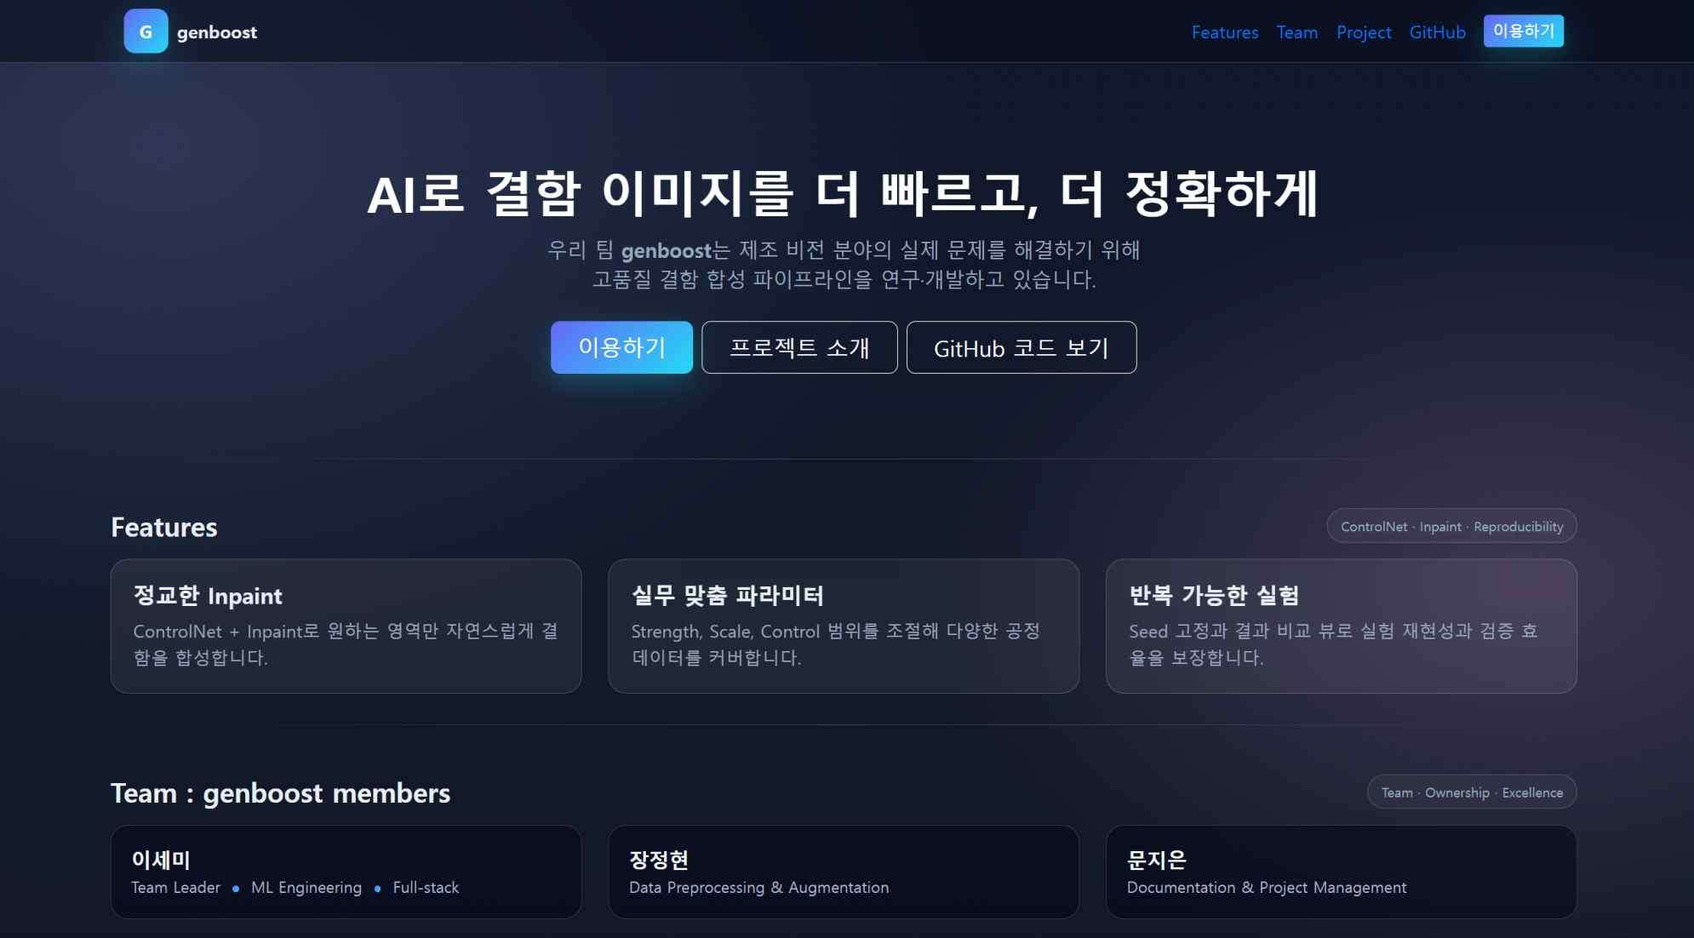
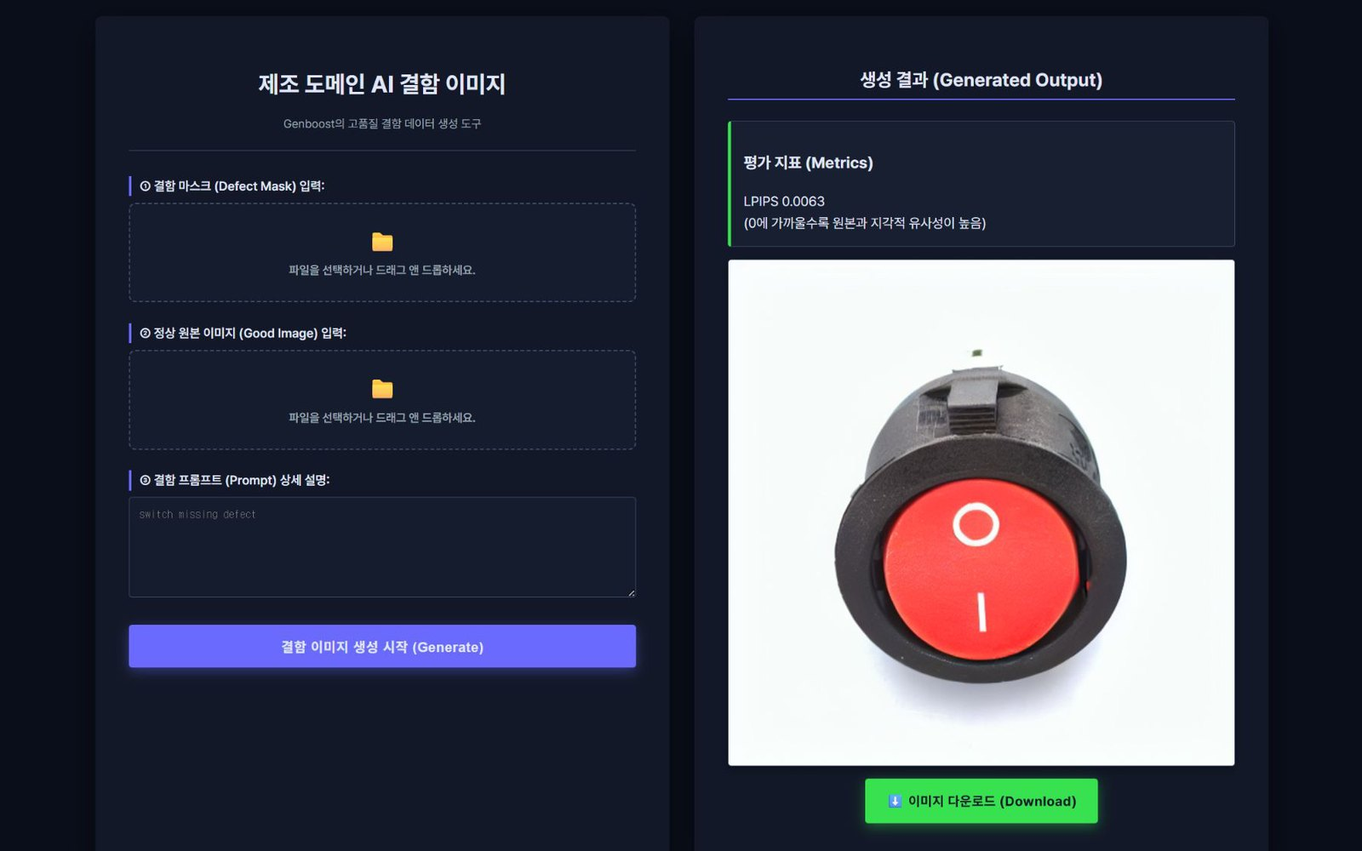
한이음 드림업 썸네일 교체: 팀원 이름이 잘린 메인 화면 대신 생성 결과 화면 사용

diff --git a/index.html b/index.html
@@ -34,7 +34,7 @@
   </section>
   <div class="nums"><div><b>8</b><span>프로젝트</span></div><div><b>2</b><span>수상 (우수상 · 장려상)</span></div><div><b>7</b><span>학기 이수 · IT융합전공</span></div></div>
   <section class="blk" id="about"><h2 class="t">About</h2><p class="about">서로 다른 레이어의 프로젝트를 직접 설계하고 구현해왔습니다. <mark>왜 이 방식을 선택했는가</mark>와 <mark>결과를 어떻게 수치로 증명할 수 있는가</mark>를 가장 중요하게 생각합니다.</p></section>
-  <a id="projects"></a><section class="blk" id="work"><h2 class="t">Selected work</h2><div><article class="pc" style="--i:0" data-slug="semantic-search-engine" data-meta="2025 · SSU DATATHON" data-title="의미론적 검색 엔진 모델 구축 — 4bit Pathfinder" data-res="데이터톤 우수상"><div class="pt"><div class="pidx">01 / 08</div><div class="pmeta">2025 · SSU DATATHON</div><h3><a class="stretch" href="./project-pages/semantic-search-engine.html">의미론적 검색 엔진 모델 구축 — 4bit Pathfinder</a></h3><p class="pres">데이터톤 우수상</p><p class="psum">62,199건 논문 데이터의 키워드 결측치를 복구해, FAISS 기반 연구자·기관 추천 엔진을 만들었습니다.</p><div class="tags"><span class="tag">Python</span><span class="tag">FAISS</span><span class="tag">ko-sroberta-multitask</span><span class="tag">Streamlit</span></div><div class="plinks"><a href="https://github.com/gamedh823-cmd/portfolio/blob/main/projects/semantic-search-engine/README.md" target="_blank" rel="noopener">README</a><a href="./projects/semantic-search-engine/datathon_report.pdf" target="_blank" rel="noopener">결과보고서 PDF</a><span class="more">자세히 보기 →</span></div></div><div class="pm"><div class="dev"><div class="dev-bar"><i></i><i></i><i></i></div><img src="./assets/semantic-search-engine.png" alt="4bit Pathfinder 실행 화면"></div></div></article><article class="pc" style="--i:1" data-slug="hanium-dreamup" data-meta="2025 · 과기정통부" data-title="한이음 드림업: 결함 데이터 증강 시스템" data-res="과기정통부 주최 장려상"><div class="pt"><div class="pidx">02 / 08</div><div class="pmeta">2025 · 과기정통부</div><h3><a class="stretch" href="./project-pages/hanium-dreamup.html">한이음 드림업: 결함 데이터 증강 시스템</a></h3><p class="pres">과기정통부 주최 장려상</p><p class="psum">Stable Diffusion·ControlNet으로 제조 결함 이미지를 생성해, 학습 데이터 부족 문제를 해결했습니다.</p><div class="tags"><span class="tag">Python</span><span class="tag">Django</span><span class="tag">AWS S3/RDS</span><span class="tag">Stable Diffusion</span></div><div class="plinks"><a href="https://github.com/gamedh823-cmd/portfolio/blob/main/projects/hanium-dreamup/README.md" target="_blank" rel="noopener">README</a><a href="./projects/hanium-dreamup/hanium_report.pdf" target="_blank" rel="noopener">개발보고서 PDF</a><a href="./projects/hanium-dreamup/hanium_design.pdf" target="_blank" rel="noopener">설계서 PDF</a><span class="more">자세히 보기 →</span></div></div><div class="pm"><div class="dev"><div class="dev-bar"><i></i><i></i><i></i></div><img src="./assets/hanium-dreamup.jpg" alt="genboost 웹앱 메인 화면"></div></div></article><article class="pc" style="--i:2" data-slug="os-monte-carlo-parallel" data-meta="2026 · 운영체제" data-title="CPU-bound Monte Carlo 병렬 처리 구조 성능 분석" data-res="4-worker 효율 92.5~94.0%"><div class="pt"><div class="pidx">03 / 08</div><div class="pmeta">2026 · 운영체제</div><h3><a class="stretch" href="./project-pages/os-monte-carlo-parallel.html">CPU-bound Monte Carlo 병렬 처리 구조 성능 분석</a></h3><p class="pres">4-worker 효율 92.5~94.0%</p><p class="psum">5가지 병렬 처리 구조를 직접 구현해, 워커 수와 실행 효율의 관계를 수치로 입증했습니다.</p><div class="tags"><span class="tag">C</span><span class="tag">Linux</span><span class="tag">POSIX pthread</span><span class="tag">Process/IPC</span></div><div class="plinks"><a href="https://github.com/gamedh823-cmd/portfolio/blob/main/projects/os-monte-carlo-parallel/README.md" target="_blank" rel="noopener">README</a><a href="./projects/os-monte-carlo-parallel/os_report.pdf" target="_blank" rel="noopener">보고서 PDF</a><span class="more">자세히 보기 →</span></div></div><div class="pm"><div class="dev"><div class="dev-bar"><i></i><i></i><i></i></div><img src="./assets/os-monte-carlo-parallel.png" alt="Worker 수 증가에 따른 실행 시간 감소 그래프"></div></div></article><article class="pc" style="--i:3" data-slug="ai-anomaly-detection" data-meta="2025 · 인공신경망(ANN)" data-title="Autoencoder 기반 이상 탐지 모델 하이퍼파라미터 최적화" data-res="재구성 오차율 최소화"><div class="pt"><div class="pidx">04 / 08</div><div class="pmeta">2025 · 인공신경망(ANN)</div><h3><a class="stretch" href="./project-pages/ai-anomaly-detection.html">Autoencoder 기반 이상 탐지 모델 하이퍼파라미터 최적화</a></h3><p class="pres">재구성 오차율 최소화</p><p class="psum">심각한 과적합의 원인을 하이퍼파라미터별로 실험해, Test Accuracy를 81%까지 끌어올렸습니다.</p><div class="tags"><span class="tag">PyTorch</span><span class="tag">Autoencoder</span></div><div class="plinks"><a href="https://github.com/gamedh823-cmd/portfolio/blob/main/projects/ai-anomaly-detection/README.md" target="_blank" rel="noopener">README</a><a href="./projects/ai-anomaly-detection/ann_project.pdf" target="_blank" rel="noopener">연구보고서 PDF</a><span class="more">자세히 보기 →</span></div></div><div class="pm"><div class="dev"><div class="dev-bar"><i></i><i></i><i></i></div><img src="./assets/ai-anomaly-detection.png" alt="정상/이상 데이터 재구성 오차 분포 개념도"></div></div></article><article class="pc" style="--i:4" data-slug="arm-image-processing" data-meta="2025 · 마이크로프로세서" data-title="ARM 코드 최적화 및 이미지 변환 시스템 구현" data-res="링커 충돌 분석·해결"><div class="pt"><div class="pidx">05 / 08</div><div class="pmeta">2025 · 마이크로프로세서</div><h3><a class="stretch" href="./project-pages/arm-image-processing.html">ARM 코드 최적화 및 이미지 변환 시스템 구현</a></h3><p class="pres">링커 충돌 분석·해결</p><p class="psum">ARM 어셈블리로 이미지 색 반전 연산을 구현하고, 링커 충돌 문제를 직접 분석해 해결했습니다.</p><div class="tags"><span class="tag">ARM Assembly</span><span class="tag">Keil MDK</span><span class="tag">Embedded System</span></div><div class="plinks"><a href="https://github.com/gamedh823-cmd/portfolio/blob/main/projects/arm-image-processing/README.md" target="_blank" rel="noopener">README</a><a href="./projects/arm-image-processing/microprocessor_report.pdf" target="_blank" rel="noopener">보고서 PDF</a><a href="./projects/arm-image-processing/microprocessor_presentation.pdf" target="_blank" rel="noopener">발표자료 PDF</a><span class="more">자세히 보기 →</span></div></div><div class="pm"><div class="dev"><div class="dev-bar"><i></i><i></i><i></i></div><img src="./assets/arm-image-processing.png" alt="Keil MDK 메모리 뷰 (음화 변환 실행 결과)"></div></div></article><article class="pc" style="--i:5" data-slug="cpu-4bit-architecture" data-meta="2024 · 컴퓨터구조 (SimpleScalar)" data-title="Computer Architecture: 프로세서·캐시 구성 성능 분석" data-res="설계 명세 동작 검증"><div class="pt"><div class="pidx">06 / 08</div><div class="pmeta">2024 · 컴퓨터구조 (SimpleScalar)</div><h3><a class="stretch" href="./project-pages/cpu-4bit-architecture.html">Computer Architecture: 프로세서·캐시 구성 성능 분석</a></h3><p class="pres">설계 명세 동작 검증</p><p class="psum">SimpleScalar로 프로세서·캐시 구성을 바꿔가며, 4개 벤치마크로 성능 변화를 정량 분석했습니다.</p><div class="tags"><span class="tag">SimpleScalar</span><span class="tag">C</span><span class="tag">Cache/Branch Predictor Simulation</span></div><div class="plinks"><a href="https://github.com/gamedh823-cmd/portfolio/blob/main/projects/cpu-4bit-architecture/README.md" target="_blank" rel="noopener">README</a><a href="./projects/cpu-4bit-architecture/computer_architecture_report.pdf" target="_blank" rel="noopener">보고서 PDF</a><span class="more">자세히 보기 →</span></div></div><div class="pm"><div class="dev"><div class="dev-bar"><i></i><i></i><i></i></div><img src="./assets/cpu-4bit-architecture.png" alt="Cache Block Size 변화에 따른 CPI 그래프"></div></div></article><article class="pc" style="--i:6" data-slug="fir-filter-design" data-meta="2025 · 팀 프로젝트 (4인)" data-title="Reconfigurable FIR Filter 설계" data-res="Waveform으로 동작 검증"><div class="pt"><div class="pidx">07 / 08</div><div class="pmeta">2025 · 팀 프로젝트 (4인)</div><h3><a class="stretch" href="./project-pages/fir-filter-design.html">Reconfigurable FIR Filter 설계</a></h3><p class="pres">Waveform으로 동작 검증</p><p class="psum">21-tap 재구성형 FIR 필터를 Verilog로 설계해, 계수 변경 중 파형이 깨지는 문제를 해결했습니다.</p><div class="tags"><span class="tag">Verilog HDL</span><span class="tag">FPGA</span><span class="tag">Quartus</span><span class="tag">QuestaSim</span></div><div class="plinks"><a href="https://github.com/gamedh823-cmd/portfolio/blob/main/projects/fir-filter-design/README.md" target="_blank" rel="noopener">README</a><a href="./projects/fir-filter-design/fir_filter_report.pdf" target="_blank" rel="noopener">보고서 PDF</a><span class="more">자세히 보기 →</span></div></div><div class="pm"><div class="dev"><div class="dev-bar"><i></i><i></i><i></i></div><img src="./assets/fir-filter-design.png" alt="QuestaSim Impulse Response Waveform 시뮬레이션 결과"></div></div></article><article class="pc" style="--i:7" data-slug="lithography-opc-pbl" data-meta="2026 · 컴퓨터를 활용한 리소그래피 PBL" data-title="OPC Recipe 파라미터 변화에 따른 Mask·Contour 보정 분석" data-res="Corner Rounding 24.39 → 19.1nm"><div class="pt"><div class="pidx">08 / 08</div><div class="pmeta">2026 · 컴퓨터를 활용한 리소그래피 PBL</div><h3><a class="stretch" href="./project-pages/lithography-opc-pbl.html">OPC Recipe 파라미터 변화에 따른 Mask·Contour 보정 분석</a></h3><p class="pres">Corner Rounding 24.39 → 19.1nm</p><p class="psum">default·split recipe로 OPC를 수행해, Corner Rounding을 24.39nm에서 19.1nm로 줄였습니다.</p><div class="tags"><span class="tag">OPC</span><span class="tag">Synopsys Proteus</span><span class="tag">Contour Simulation</span></div><div class="plinks"><a href="https://github.com/gamedh823-cmd/portfolio/blob/main/projects/lithography-opc-pbl/README.md" target="_blank" rel="noopener">README</a><a href="./projects/lithography-opc-pbl/lithography_pbl.pdf" target="_blank" rel="noopener">발표자료 PDF</a><span class="more">자세히 보기 →</span></div></div><div class="pm"><div class="dev"><div class="dev-bar"><i></i><i></i><i></i></div><img src="./assets/lithography-opc-pbl.png" alt="Split recipe 적용 후 Corner Rounding 19.09nm 측정 화면 (Synopsys Proteus)"></div></div></article></div></section>
+  <a id="projects"></a><section class="blk" id="work"><h2 class="t">Selected work</h2><div><article class="pc" style="--i:0" data-slug="semantic-search-engine" data-meta="2025 · SSU DATATHON" data-title="의미론적 검색 엔진 모델 구축 — 4bit Pathfinder" data-res="데이터톤 우수상"><div class="pt"><div class="pidx">01 / 08</div><div class="pmeta">2025 · SSU DATATHON</div><h3><a class="stretch" href="./project-pages/semantic-search-engine.html">의미론적 검색 엔진 모델 구축 — 4bit Pathfinder</a></h3><p class="pres">데이터톤 우수상</p><p class="psum">62,199건 논문 데이터의 키워드 결측치를 복구해, FAISS 기반 연구자·기관 추천 엔진을 만들었습니다.</p><div class="tags"><span class="tag">Python</span><span class="tag">FAISS</span><span class="tag">ko-sroberta-multitask</span><span class="tag">Streamlit</span></div><div class="plinks"><a href="https://github.com/gamedh823-cmd/portfolio/blob/main/projects/semantic-search-engine/README.md" target="_blank" rel="noopener">README</a><a href="./projects/semantic-search-engine/datathon_report.pdf" target="_blank" rel="noopener">결과보고서 PDF</a><span class="more">자세히 보기 →</span></div></div><div class="pm"><div class="dev"><div class="dev-bar"><i></i><i></i><i></i></div><img src="./assets/semantic-search-engine.png" alt="4bit Pathfinder 실행 화면"></div></div></article><article class="pc" style="--i:1" data-slug="hanium-dreamup" data-meta="2025 · 과기정통부" data-title="한이음 드림업: 결함 데이터 증강 시스템" data-res="과기정통부 주최 장려상"><div class="pt"><div class="pidx">02 / 08</div><div class="pmeta">2025 · 과기정통부</div><h3><a class="stretch" href="./project-pages/hanium-dreamup.html">한이음 드림업: 결함 데이터 증강 시스템</a></h3><p class="pres">과기정통부 주최 장려상</p><p class="psum">Stable Diffusion·ControlNet으로 제조 결함 이미지를 생성해, 학습 데이터 부족 문제를 해결했습니다.</p><div class="tags"><span class="tag">Python</span><span class="tag">Django</span><span class="tag">AWS S3/RDS</span><span class="tag">Stable Diffusion</span></div><div class="plinks"><a href="https://github.com/gamedh823-cmd/portfolio/blob/main/projects/hanium-dreamup/README.md" target="_blank" rel="noopener">README</a><a href="./projects/hanium-dreamup/hanium_report.pdf" target="_blank" rel="noopener">개발보고서 PDF</a><a href="./projects/hanium-dreamup/hanium_design.pdf" target="_blank" rel="noopener">설계서 PDF</a><span class="more">자세히 보기 →</span></div></div><div class="pm"><div class="dev"><div class="dev-bar"><i></i><i></i><i></i></div><img src="./assets/hanium-dreamup.jpg" alt="genboost 웹앱 생성 결과 화면 (결함 이미지와 LPIPS 평가 지표)"></div></div></article><article class="pc" style="--i:2" data-slug="os-monte-carlo-parallel" data-meta="2026 · 운영체제" data-title="CPU-bound Monte Carlo 병렬 처리 구조 성능 분석" data-res="4-worker 효율 92.5~94.0%"><div class="pt"><div class="pidx">03 / 08</div><div class="pmeta">2026 · 운영체제</div><h3><a class="stretch" href="./project-pages/os-monte-carlo-parallel.html">CPU-bound Monte Carlo 병렬 처리 구조 성능 분석</a></h3><p class="pres">4-worker 효율 92.5~94.0%</p><p class="psum">5가지 병렬 처리 구조를 직접 구현해, 워커 수와 실행 효율의 관계를 수치로 입증했습니다.</p><div class="tags"><span class="tag">C</span><span class="tag">Linux</span><span class="tag">POSIX pthread</span><span class="tag">Process/IPC</span></div><div class="plinks"><a href="https://github.com/gamedh823-cmd/portfolio/blob/main/projects/os-monte-carlo-parallel/README.md" target="_blank" rel="noopener">README</a><a href="./projects/os-monte-carlo-parallel/os_report.pdf" target="_blank" rel="noopener">보고서 PDF</a><span class="more">자세히 보기 →</span></div></div><div class="pm"><div class="dev"><div class="dev-bar"><i></i><i></i><i></i></div><img src="./assets/os-monte-carlo-parallel.png" alt="Worker 수 증가에 따른 실행 시간 감소 그래프"></div></div></article><article class="pc" style="--i:3" data-slug="ai-anomaly-detection" data-meta="2025 · 인공신경망(ANN)" data-title="Autoencoder 기반 이상 탐지 모델 하이퍼파라미터 최적화" data-res="재구성 오차율 최소화"><div class="pt"><div class="pidx">04 / 08</div><div class="pmeta">2025 · 인공신경망(ANN)</div><h3><a class="stretch" href="./project-pages/ai-anomaly-detection.html">Autoencoder 기반 이상 탐지 모델 하이퍼파라미터 최적화</a></h3><p class="pres">재구성 오차율 최소화</p><p class="psum">심각한 과적합의 원인을 하이퍼파라미터별로 실험해, Test Accuracy를 81%까지 끌어올렸습니다.</p><div class="tags"><span class="tag">PyTorch</span><span class="tag">Autoencoder</span></div><div class="plinks"><a href="https://github.com/gamedh823-cmd/portfolio/blob/main/projects/ai-anomaly-detection/README.md" target="_blank" rel="noopener">README</a><a href="./projects/ai-anomaly-detection/ann_project.pdf" target="_blank" rel="noopener">연구보고서 PDF</a><span class="more">자세히 보기 →</span></div></div><div class="pm"><div class="dev"><div class="dev-bar"><i></i><i></i><i></i></div><img src="./assets/ai-anomaly-detection.png" alt="정상/이상 데이터 재구성 오차 분포 개념도"></div></div></article><article class="pc" style="--i:4" data-slug="arm-image-processing" data-meta="2025 · 마이크로프로세서" data-title="ARM 코드 최적화 및 이미지 변환 시스템 구현" data-res="링커 충돌 분석·해결"><div class="pt"><div class="pidx">05 / 08</div><div class="pmeta">2025 · 마이크로프로세서</div><h3><a class="stretch" href="./project-pages/arm-image-processing.html">ARM 코드 최적화 및 이미지 변환 시스템 구현</a></h3><p class="pres">링커 충돌 분석·해결</p><p class="psum">ARM 어셈블리로 이미지 색 반전 연산을 구현하고, 링커 충돌 문제를 직접 분석해 해결했습니다.</p><div class="tags"><span class="tag">ARM Assembly</span><span class="tag">Keil MDK</span><span class="tag">Embedded System</span></div><div class="plinks"><a href="https://github.com/gamedh823-cmd/portfolio/blob/main/projects/arm-image-processing/README.md" target="_blank" rel="noopener">README</a><a href="./projects/arm-image-processing/microprocessor_report.pdf" target="_blank" rel="noopener">보고서 PDF</a><a href="./projects/arm-image-processing/microprocessor_presentation.pdf" target="_blank" rel="noopener">발표자료 PDF</a><span class="more">자세히 보기 →</span></div></div><div class="pm"><div class="dev"><div class="dev-bar"><i></i><i></i><i></i></div><img src="./assets/arm-image-processing.png" alt="Keil MDK 메모리 뷰 (음화 변환 실행 결과)"></div></div></article><article class="pc" style="--i:5" data-slug="cpu-4bit-architecture" data-meta="2024 · 컴퓨터구조 (SimpleScalar)" data-title="Computer Architecture: 프로세서·캐시 구성 성능 분석" data-res="설계 명세 동작 검증"><div class="pt"><div class="pidx">06 / 08</div><div class="pmeta">2024 · 컴퓨터구조 (SimpleScalar)</div><h3><a class="stretch" href="./project-pages/cpu-4bit-architecture.html">Computer Architecture: 프로세서·캐시 구성 성능 분석</a></h3><p class="pres">설계 명세 동작 검증</p><p class="psum">SimpleScalar로 프로세서·캐시 구성을 바꿔가며, 4개 벤치마크로 성능 변화를 정량 분석했습니다.</p><div class="tags"><span class="tag">SimpleScalar</span><span class="tag">C</span><span class="tag">Cache/Branch Predictor Simulation</span></div><div class="plinks"><a href="https://github.com/gamedh823-cmd/portfolio/blob/main/projects/cpu-4bit-architecture/README.md" target="_blank" rel="noopener">README</a><a href="./projects/cpu-4bit-architecture/computer_architecture_report.pdf" target="_blank" rel="noopener">보고서 PDF</a><span class="more">자세히 보기 →</span></div></div><div class="pm"><div class="dev"><div class="dev-bar"><i></i><i></i><i></i></div><img src="./assets/cpu-4bit-architecture.png" alt="Cache Block Size 변화에 따른 CPI 그래프"></div></div></article><article class="pc" style="--i:6" data-slug="fir-filter-design" data-meta="2025 · 팀 프로젝트 (4인)" data-title="Reconfigurable FIR Filter 설계" data-res="Waveform으로 동작 검증"><div class="pt"><div class="pidx">07 / 08</div><div class="pmeta">2025 · 팀 프로젝트 (4인)</div><h3><a class="stretch" href="./project-pages/fir-filter-design.html">Reconfigurable FIR Filter 설계</a></h3><p class="pres">Waveform으로 동작 검증</p><p class="psum">21-tap 재구성형 FIR 필터를 Verilog로 설계해, 계수 변경 중 파형이 깨지는 문제를 해결했습니다.</p><div class="tags"><span class="tag">Verilog HDL</span><span class="tag">FPGA</span><span class="tag">Quartus</span><span class="tag">QuestaSim</span></div><div class="plinks"><a href="https://github.com/gamedh823-cmd/portfolio/blob/main/projects/fir-filter-design/README.md" target="_blank" rel="noopener">README</a><a href="./projects/fir-filter-design/fir_filter_report.pdf" target="_blank" rel="noopener">보고서 PDF</a><span class="more">자세히 보기 →</span></div></div><div class="pm"><div class="dev"><div class="dev-bar"><i></i><i></i><i></i></div><img src="./assets/fir-filter-design.png" alt="QuestaSim Impulse Response Waveform 시뮬레이션 결과"></div></div></article><article class="pc" style="--i:7" data-slug="lithography-opc-pbl" data-meta="2026 · 컴퓨터를 활용한 리소그래피 PBL" data-title="OPC Recipe 파라미터 변화에 따른 Mask·Contour 보정 분석" data-res="Corner Rounding 24.39 → 19.1nm"><div class="pt"><div class="pidx">08 / 08</div><div class="pmeta">2026 · 컴퓨터를 활용한 리소그래피 PBL</div><h3><a class="stretch" href="./project-pages/lithography-opc-pbl.html">OPC Recipe 파라미터 변화에 따른 Mask·Contour 보정 분석</a></h3><p class="pres">Corner Rounding 24.39 → 19.1nm</p><p class="psum">default·split recipe로 OPC를 수행해, Corner Rounding을 24.39nm에서 19.1nm로 줄였습니다.</p><div class="tags"><span class="tag">OPC</span><span class="tag">Synopsys Proteus</span><span class="tag">Contour Simulation</span></div><div class="plinks"><a href="https://github.com/gamedh823-cmd/portfolio/blob/main/projects/lithography-opc-pbl/README.md" target="_blank" rel="noopener">README</a><a href="./projects/lithography-opc-pbl/lithography_pbl.pdf" target="_blank" rel="noopener">발표자료 PDF</a><span class="more">자세히 보기 →</span></div></div><div class="pm"><div class="dev"><div class="dev-bar"><i></i><i></i><i></i></div><img src="./assets/lithography-opc-pbl.png" alt="Split recipe 적용 후 Corner Rounding 19.09nm 측정 화면 (Synopsys Proteus)"></div></div></article></div></section>
   <section class="blk" id="stack"><h2 class="t">Tech stack</h2><div class="stk"><div><h3>Languages</h3><div class="chips"><span class="tag">Python</span><span class="tag">C</span><span class="tag">ARM Assembly</span><span class="tag">Verilog HDL</span></div></div><div><h3>AI &amp; Data</h3><div class="chips"><span class="tag">PyTorch</span><span class="tag">FAISS</span><span class="tag">ko-sroberta-multitask</span><span class="tag">Stable Diffusion</span><span class="tag">ControlNet</span><span class="tag">LoRA</span></div></div><div><h3>Systems &amp; Embedded</h3><div class="chips"><span class="tag">Linux</span><span class="tag">POSIX pthread</span><span class="tag">Keil MDK</span><span class="tag">FPGA</span><span class="tag">SimpleScalar</span></div></div><div><h3>Web &amp; Infra</h3><div class="chips"><span class="tag">Django</span><span class="tag">AWS S3</span><span class="tag">AWS RDS</span><span class="tag">Streamlit</span></div></div></div></section>
   <section class="end" id="contact"><h2>Let's talk.</h2><p>프로젝트와 보고서에 대해 궁금한 점이 있으면 편하게 연락 주세요.<br>gamedh823@gmail.com</p><div class="btns"><button class="btn lime" type="button" data-copy="gamedh823@gmail.com"><span>이메일 복사</span></button><a class="btn" href="https://github.com/gamedh823-cmd/portfolio" target="_blank" rel="noopener">GitHub</a></div></section>
   <footer><span>© 2026 Yu Jiwon</span><span>숭실대학교 전자정보공학부 IT융합전공</span></footer>

diff --git a/project-pages/hanium-dreamup.html b/project-pages/hanium-dreamup.html
@@ -32,7 +32,7 @@
     <div class="detail-eyebrow">2025 한이음 드림업 프로젝트 · 과학기술정보통신부 주최 · 장려상</div>
     <h1>한이음 드림업: 결함 데이터 증강 시스템</h1>
     <div class="detail-meta-row"><span class="tag">Python</span><span class="tag">Django</span><span class="tag">AWS S3/RDS</span><span class="tag">Stable Diffusion</span><span class="tag">ControlNet</span><span class="tag">LoRA</span></div>
-    <div class="detail-image"><img src="../assets/hanium-dreamup.jpg" alt="genboost 웹앱 메인 화면" loading="lazy"></div>
+    <div class="detail-image"><img src="../assets/hanium-dreamup.jpg" alt="genboost 웹앱 생성 결과 화면 (결함 이미지와 LPIPS 평가 지표)" loading="lazy"></div>
   </section>
 
   <section class="detail-body">
